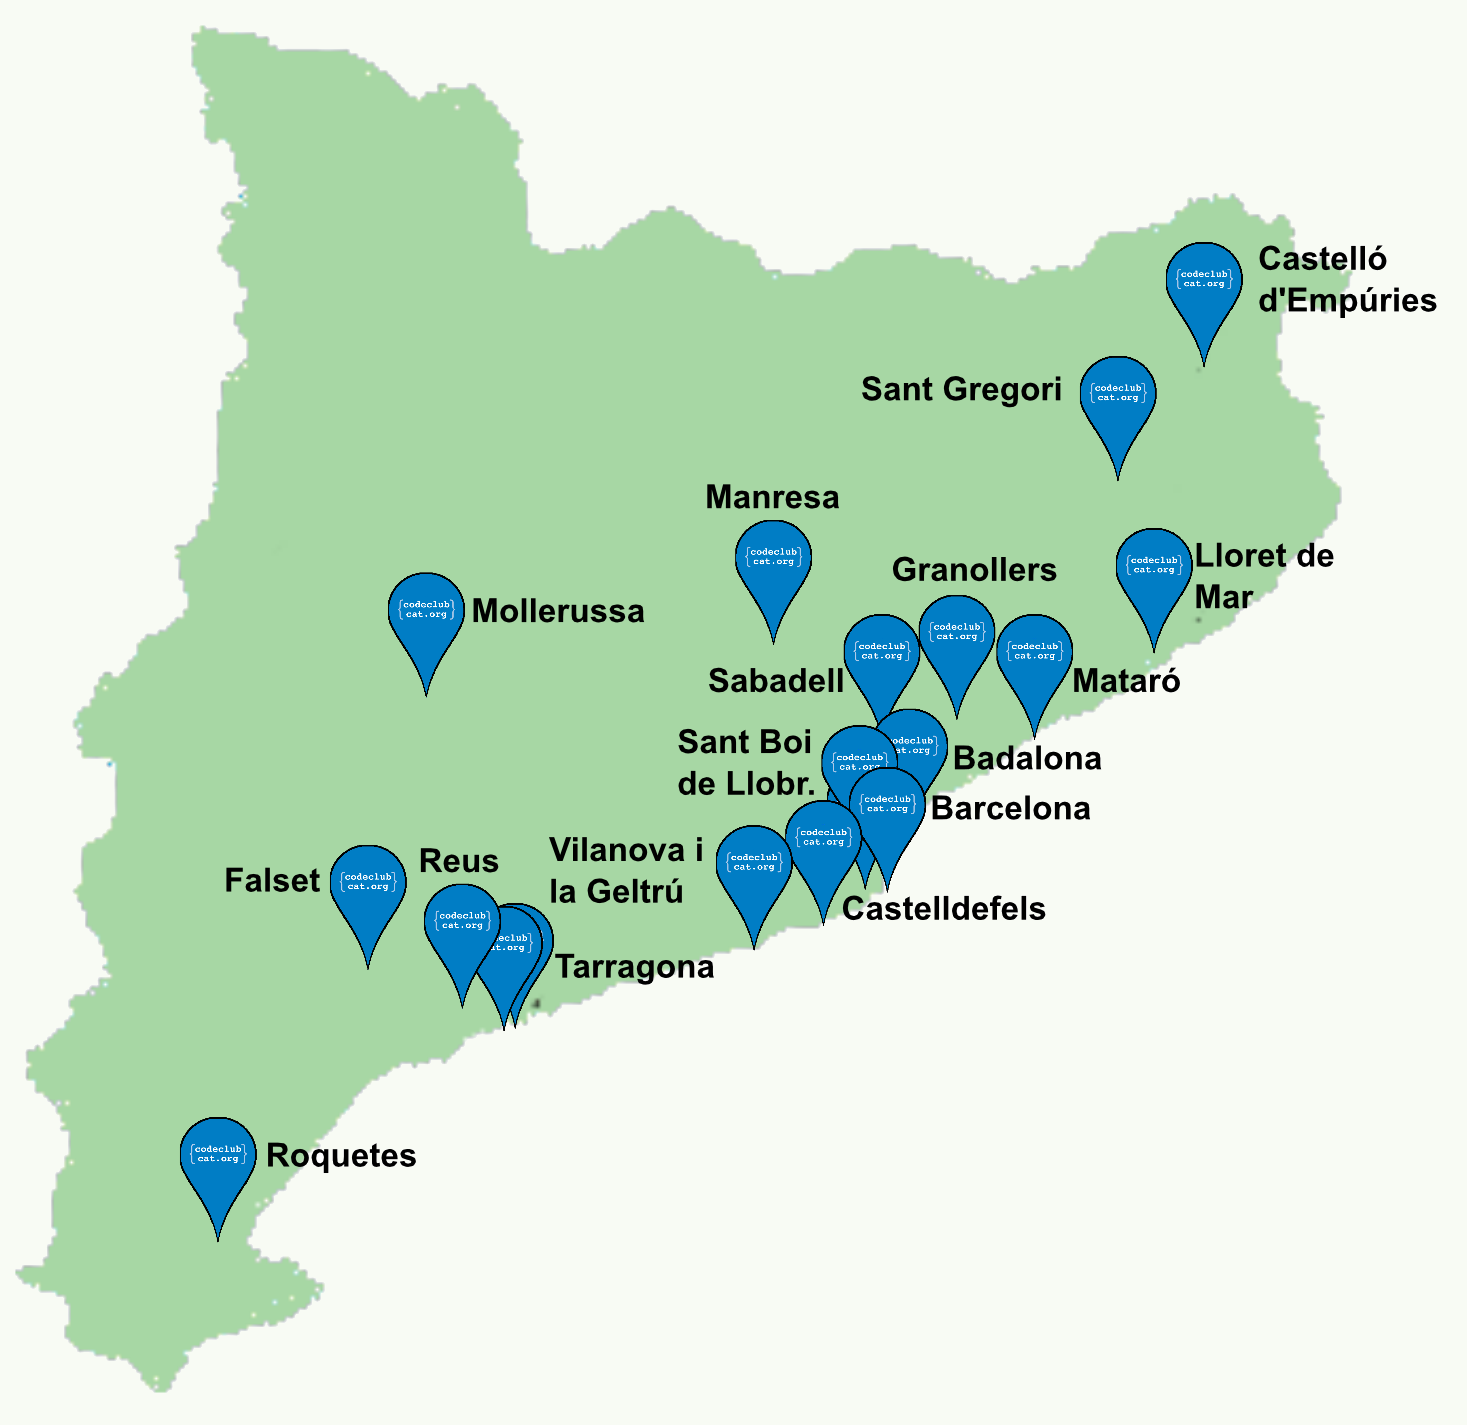
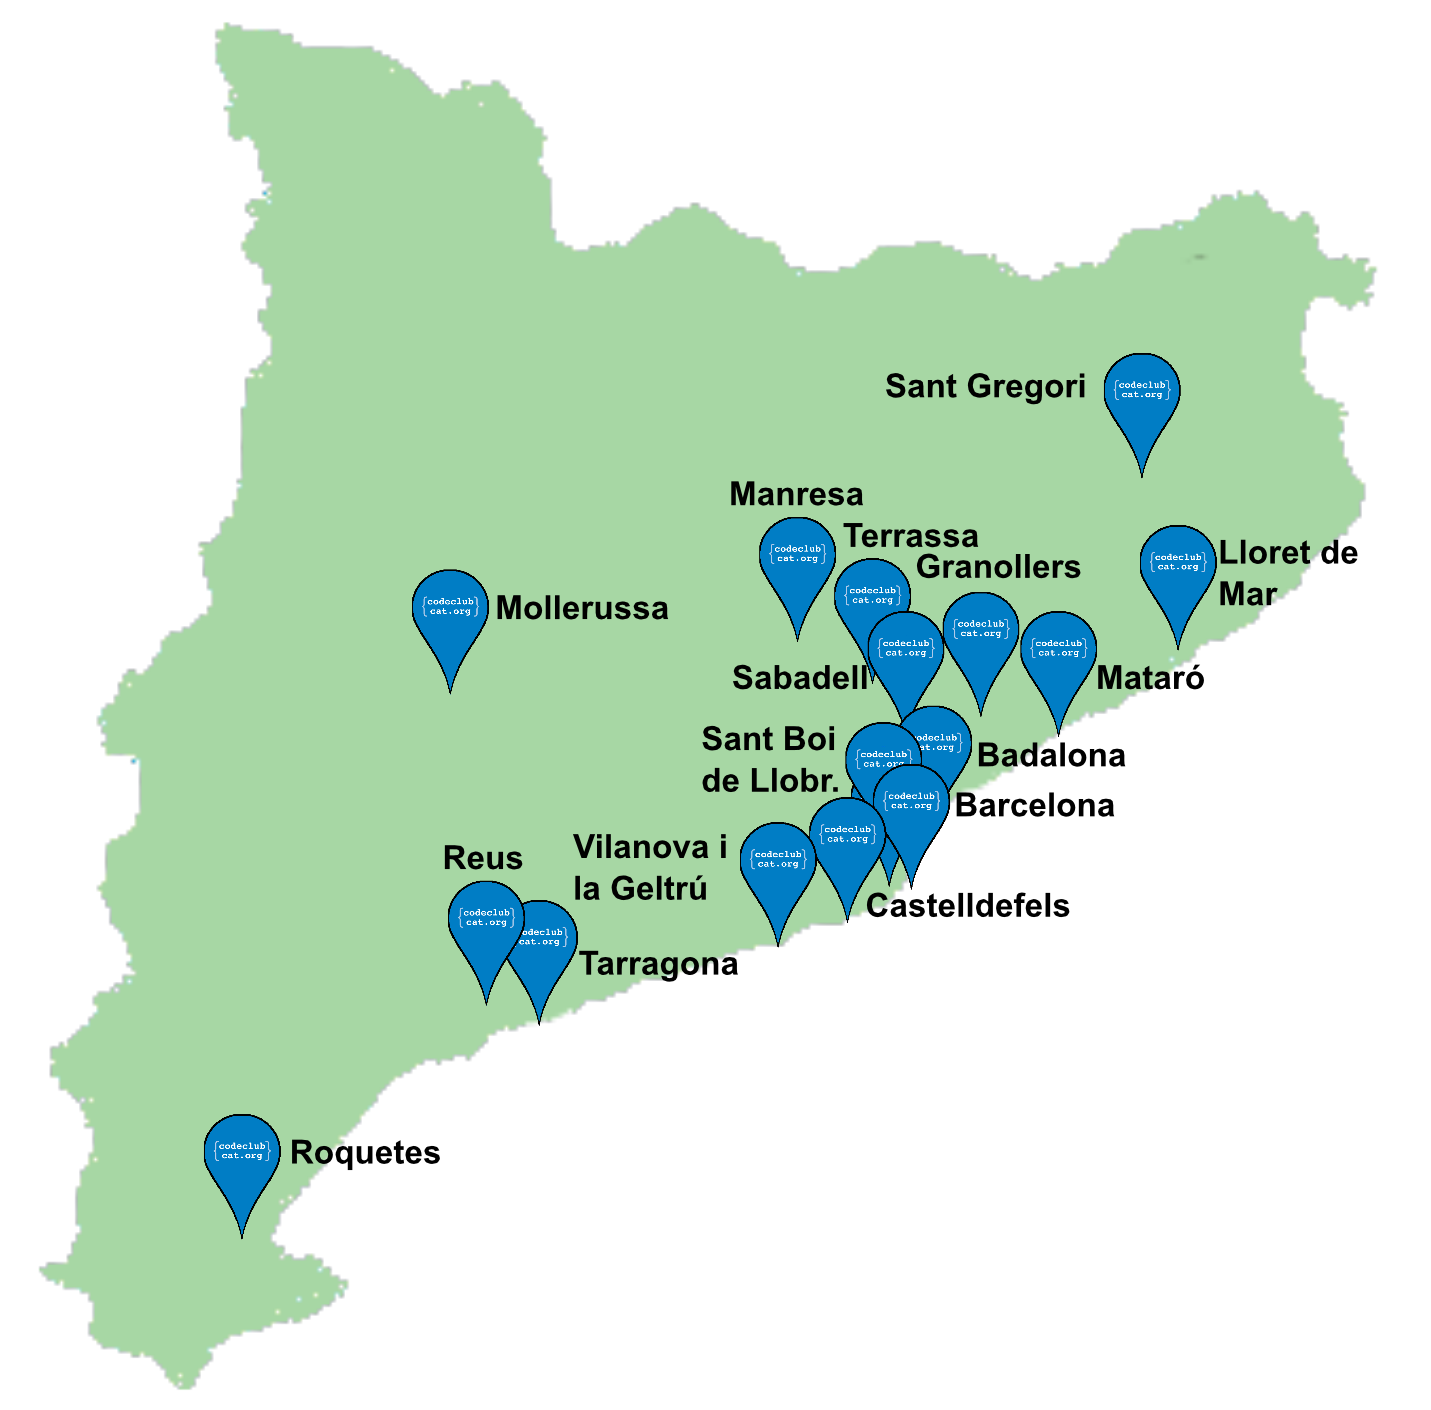
updated biblioteques

Changed region(s): [[0.0, 0.0, 0.9839, 0.9986], [0.246, 0.4057, 0.4612, 0.4993]]

diff --git a/biblioteques/index.html b/biblioteques/index.html
@@ -74,7 +74,7 @@ title: Codeclub a les biblioteques
 	Igual que la resta de Codeclubs, els tallers són també gratuïts i gestionats per voluntaris, que en aquest cas són estudiants de grau de les dues universitats.</p>    
 
       <!--llistat de biblioteques seleccionades-->
-      <p>Per aquesta primera edició, hem seleccionat 20 biblioteques d'arreu de Catalunya, amb un nombre màxim de 12 alumnes per biblioteca:</p>
+      <p>Per aquesta primera edició, hem seleccionat 17 biblioteques d'arreu de Catalunya, amb un nombre màxim de 12 alumnes per biblioteca:</p>
       <br />
       <b>Província de Barcelona</b>
       <br />
